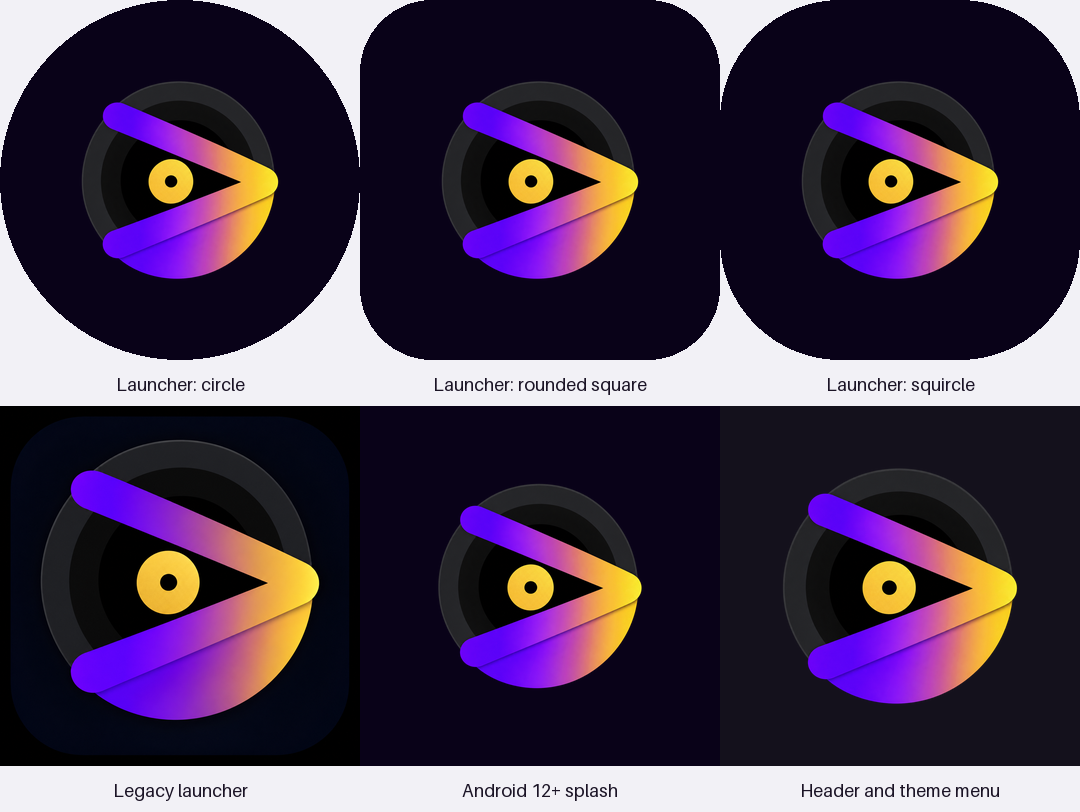
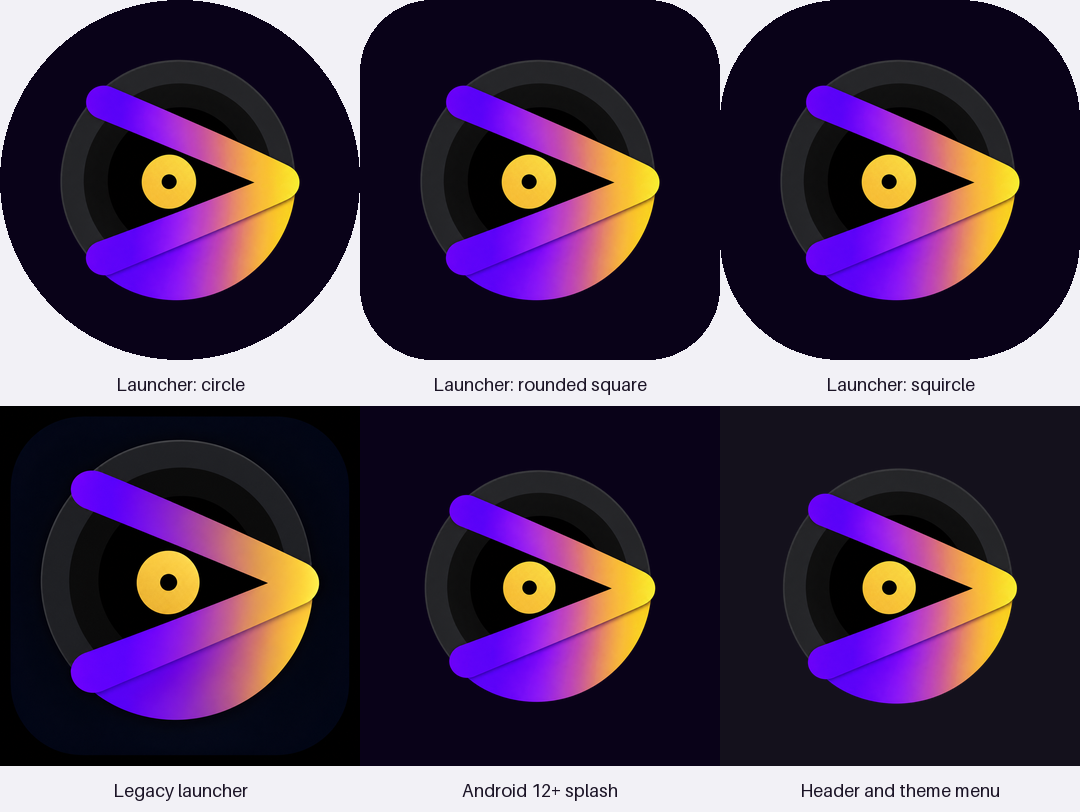
Увеличить иконку на рабочем столе и заставке

diff --git a/tools/render_icon_previews.py b/tools/render_icon_previews.py
@@ -8,6 +8,8 @@ FOREGROUND = ROOT / "app/src/main/res/drawable-nodpi/voltune_icon_foreground.png
 OUTPUT = ROOT / "docs/brand/voltune-icon-preview.png"
 SIZE = 360
 BRAND = (9, 2, 24, 255)
+ADAPTIVE_INSET_RATIO = 12 / 108
+SPLASH_INSET_RATIO = 36 / 288
 
 
 def fit(image: Image.Image, inset_ratio: float, background=(0, 0, 0, 0)) -> Image.Image:
@@ -49,13 +51,13 @@ def main() -> None:
     if foreground.getbbox() is None:
         raise SystemExit("Foreground is fully transparent")
 
-    adaptive = fit(foreground, 0.18, BRAND)
-    alpha_bounds = fit(foreground, 0.18).getchannel("A").getbbox()
+    adaptive = fit(foreground, ADAPTIVE_INSET_RATIO, BRAND)
+    alpha_bounds = fit(foreground, ADAPTIVE_INSET_RATIO).getchannel("A").getbbox()
     content_ratio = (alpha_bounds[2] - alpha_bounds[0]) / SIZE
     if not 0.50 <= content_ratio <= 0.70:
         raise SystemExit(f"Adaptive content ratio {content_ratio:.3f} is outside 0.50..0.70")
 
-    splash = fit(foreground, 0.17, BRAND)
+    splash = fit(foreground, SPLASH_INSET_RATIO, BRAND)
     header = fit(foreground, 0.12, (20, 17, 28, 255))
     legacy = master.resize((SIZE, SIZE), Image.Resampling.LANCZOS)
     tiles = [
